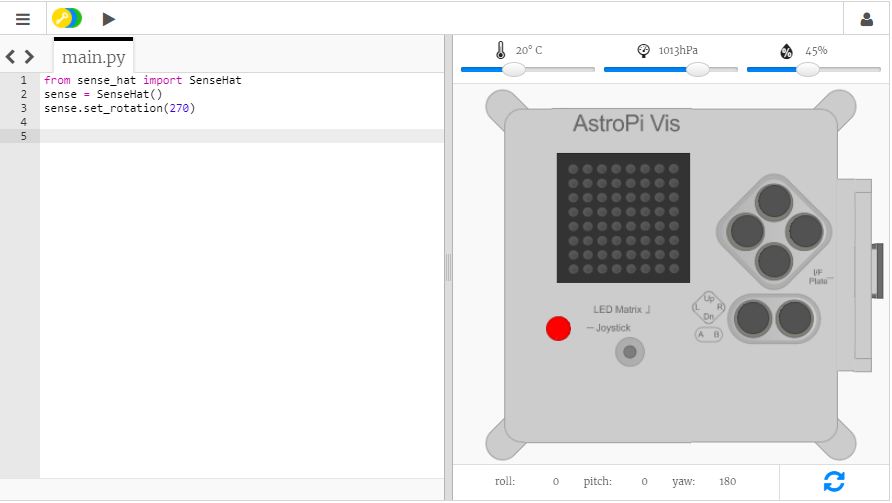
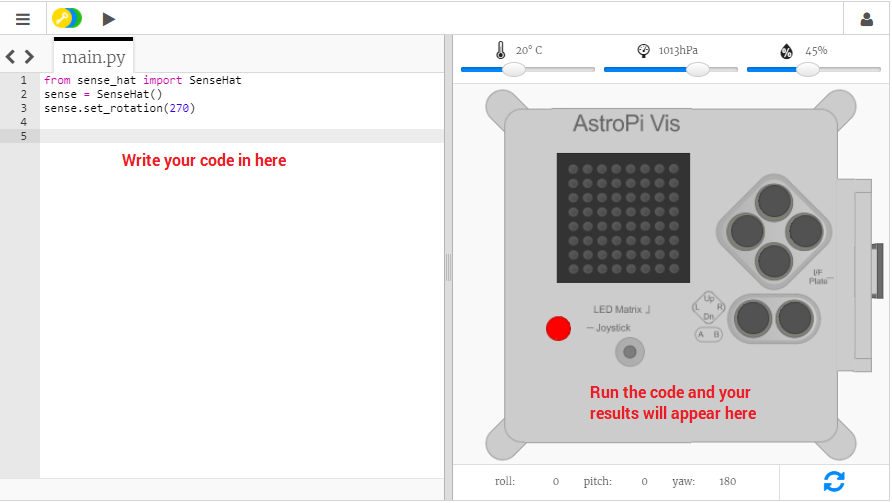
Add text page

Changed region(s): [[0.6659, 0.7455, 0.8475, 0.835], [0.1211, 0.2982, 0.333, 0.328]]

diff --git a/en/step_4.md b/en/step_4.md
@@ -1,5 +1,30 @@
 ## Display a message
 
++ Open the [Sense HAT emulator](https://trinket.io/mission-zero) for the Mission Zero project.
 
-Display a message
-Display messages with different scroll speeds
+You will see that three lines of code have been added automatically for you:
+
+```python
+from sense_hat import SenseHat
+sense = SenseHat()
+sense.set_rotation(270)
+```
+This code connects to the Sense HAT and makes sure the LED display is shown the correct way around in the Astro Pi display on the right.
+
++ Let's scroll a message across the screen. Add this code underneath the other code:
+
+```python
+sense.show_message("Astro Pi")
+```
+
++ Press the **Run** button and watch as the message "Astro Pi" scrolls across the LED matrix on the Sense HAT.
+
+To display a different message, you can write anything you like inside the quotation marks (`""`).
+
++ You can change the speed of the message scrolling across the screen. Add a `scroll_speed` to the line of code you already have, like this:
+
+```python
+sense.show_message("Astro Pi", scroll_speed=0.05)
+```
+
+The original speed of the message is `0.1`. Making the number smaller will make the message scroll more quickly, and making the number larger makes the message scroll more slowly.

diff --git a/en/step_3.md b/en/step_3.md
@@ -6,6 +6,6 @@ Here is a real Sense HAT inside a 3D printed Astro-Pi case:
 
 ![Real Astro Pi](images/real-astro-pi.png)
 
-For this mission, you will be using the Sense HAT emulator:
+For this mission, you will be using the Sense HAT emulator. The emulator is a piece of software which simulates all of the functions of the Sense HAT in your web browser.
 
 ![Sense HAT emulator](images/sense-hat-emulator.png)
